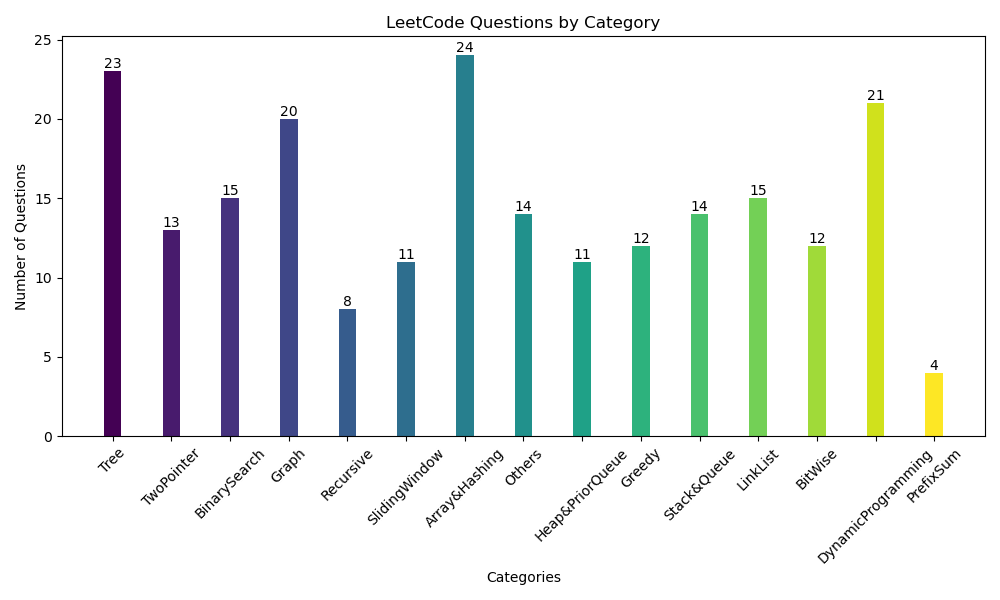
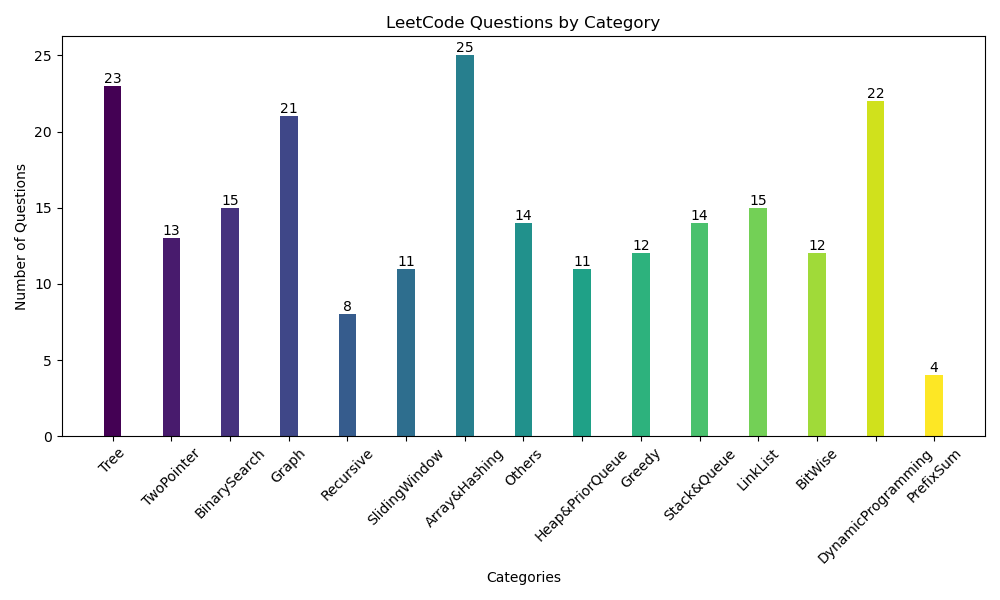
daily pratice kahn's, dp

diff --git a/DynamicProgramming/1857. Largest Color Value in a Directed Graph.cpp b/DynamicProgramming/1857. Largest Color Value in a Directed Graph.cpp
@@ -1,0 +1,65 @@
+// solution
+// 超時
+
+/*
+    dfs, 每個node都走一遍紀錄color, time O(V * (V + E))
+
+    正解: kahn's algorithm + DP
+    kahn's algorithm, 從indegree 0 的node出發,
+   每個node都紀錄每個color最大出現次數 最後在end的地方找出最大color
+
+
+
+*/
+#include <iostream>
+using namespace std;
+class Solution {
+  public:
+	int largestPathValue(string colors, vector<vector<int>> &edges) {
+		int n = colors.length();
+		vector<vector<int>> graph(n);
+		vector<int> indegree(n, 0); // {indegree, prefix color}
+		vector<vector<int>> dp(
+		    n,
+		    vector<int>(
+		        26, 0)); // dp[node][color]代表走到該node每個color出現的最大次數
+		queue<int> q;
+		for (auto &e : edges) {
+			graph[e[0]].push_back(e[1]);
+			++indegree[e[1]];
+		}
+		// find indegree = 0 node
+		for (int i = 0; i < indegree.size(); ++i) {
+			if (indegree[i] == 0)
+				q.push(i);
+		}
+		int largest_color = 0;
+		int deleted_nodes = 0; // detect cycle
+		while (!q.empty()) {
+			int node = q.front();
+			q.pop();
+			++deleted_nodes;
+			// add self to the path
+			++dp[node][colors[node] - 'a'];
+			// at the end of path, we calculate most frequent color
+			if (graph[node].size() == 0) {
+				for (int i = 0; i < 26; ++i)
+					largest_color = max(largest_color, dp[node][i]);
+			}
+			for (int &nei : graph[node]) {
+				// update neighbor indegree and add color path to it
+				--indegree[nei];
+
+				// find max color in every path
+				for (int i = 0; i < 26; ++i) {
+					dp[nei][i] = max(dp[node][i], dp[nei][i]);
+				}
+
+				// if indegree become 0, add to queue
+				if (indegree[nei] == 0)
+					q.push(nei);
+			}
+		}
+		return deleted_nodes == n ? largest_color : -1;
+	}
+};

diff --git a/Graph/1857. Largest Color Value in a Directed Graph.cpp b/Graph/1857. Largest Color Value in a Directed Graph.cpp
@@ -1,0 +1,65 @@
+// solution
+// 超時
+
+/*
+    dfs, 每個node都走一遍紀錄color, time O(V * (V + E))
+
+    正解: kahn's algorithm + DP
+    kahn's algorithm, 從indegree 0 的node出發,
+   每個node都紀錄每個color最大出現次數 最後在end的地方找出最大color
+
+
+
+*/
+#include <iostream>
+using namespace std;
+class Solution {
+  public:
+	int largestPathValue(string colors, vector<vector<int>> &edges) {
+		int n = colors.length();
+		vector<vector<int>> graph(n);
+		vector<int> indegree(n, 0); // {indegree, prefix color}
+		vector<vector<int>> dp(
+		    n,
+		    vector<int>(
+		        26, 0)); // dp[node][color]代表走到該node每個color出現的最大次數
+		queue<int> q;
+		for (auto &e : edges) {
+			graph[e[0]].push_back(e[1]);
+			++indegree[e[1]];
+		}
+		// find indegree = 0 node
+		for (int i = 0; i < indegree.size(); ++i) {
+			if (indegree[i] == 0)
+				q.push(i);
+		}
+		int largest_color = 0;
+		int deleted_nodes = 0; // detect cycle
+		while (!q.empty()) {
+			int node = q.front();
+			q.pop();
+			++deleted_nodes;
+			// add self to the path
+			++dp[node][colors[node] - 'a'];
+			// at the end of path, we calculate most frequent color
+			if (graph[node].size() == 0) {
+				for (int i = 0; i < 26; ++i)
+					largest_color = max(largest_color, dp[node][i]);
+			}
+			for (int &nei : graph[node]) {
+				// update neighbor indegree and add color path to it
+				--indegree[nei];
+
+				// find max color in every path
+				for (int i = 0; i < 26; ++i) {
+					dp[nei][i] = max(dp[node][i], dp[nei][i]);
+				}
+
+				// if indegree become 0, add to queue
+				if (indegree[nei] == 0)
+					q.push(nei);
+			}
+		}
+		return deleted_nodes == n ? largest_color : -1;
+	}
+};

diff --git a/update_readme.py b/update_readme.py
@@ -78,16 +78,18 @@ def generate_bar_chart(folder_contents, output_path):
     plt.close()
 
 
-def get_daily_commits(root_dir):
-
+def get_daily_commits(root_dir, exclude_folder):
     repo = git.Repo(root_dir)
     daily_counts = defaultdict(int)
+    daily_seen_filenames = defaultdict(set)  # Tracks filenames seen per day
 
     for commit in repo.iter_commits():
         date = datetime.fromtimestamp(commit.committed_date).strftime("%m-%d")
         files = commit.stats.files
 
         for file_path, stats in files.items():
+            filename = os.path.basename(file_path)
+
             # Check if it's a new file (additions > 0 and deletions == 0)
             is_new_file = (
                 stats.get("deletions", 0) == 0 and stats.get("insertions", 0) > 0
@@ -95,7 +97,7 @@ def get_daily_commits(root_dir):
 
             # Conditions: valid extension (.c or .cpp), not in excluded folders
             if (
-                file_path.endswith((".c", ".cpp"))
+                filename.endswith((".c", ".cpp"))
                 and not any(folder in file_path for folder in exclude_folder)
                 and is_new_file
             ):
@@ -103,7 +105,10 @@ def get_daily_commits(root_dir):
                 if not any(
                     file_path in parent.stats.files for parent in commit.parents
                 ):
-                    daily_counts[date] += 1
+                    # Only count unique filenames per day
+                    if filename not in daily_seen_filenames[date]:
+                        daily_counts[date] += 1
+                        daily_seen_filenames[date].add(filename)
 
     return daily_counts
 

diff --git a/Array&Hashing/2131. Longest Palindrome by Concatenating Two Letter Words.cpp b/Array&Hashing/2131. Longest Palindrome by Concatenating Two Letter Words.cpp
@@ -1,0 +1,37 @@
+class Solution {
+  public:
+	int longestPalindrome(vector<string> &words) {
+		int res = 0;
+		unordered_map<string, int> word_map;
+		bool same_add = false;
+
+		for (string &s : words) {
+			++word_map[s];
+		}
+
+		for (auto &[s, count] : word_map) {
+			if (s[0] == s[1]) {
+				// 對稱字串，例如 "gg"
+				if (count % 2 == 0) {
+					res += count * 2;
+				} else {
+					res += (count - 1) * 2;
+					same_add = true; // 留一個放中間
+				}
+			} else {
+				string rev = {s[1], s[0]};
+				if (word_map.count(rev)) {
+					int pair_count = min(count, word_map[rev]);
+					res += pair_count * 4;
+					word_map[rev] = 0; // 標記 rev 已處理
+					word_map[s] = 0;
+				}
+			}
+		}
+
+		if (same_add)
+			res += 2; // 中間放一個對稱字串
+
+		return res;
+	}
+};
